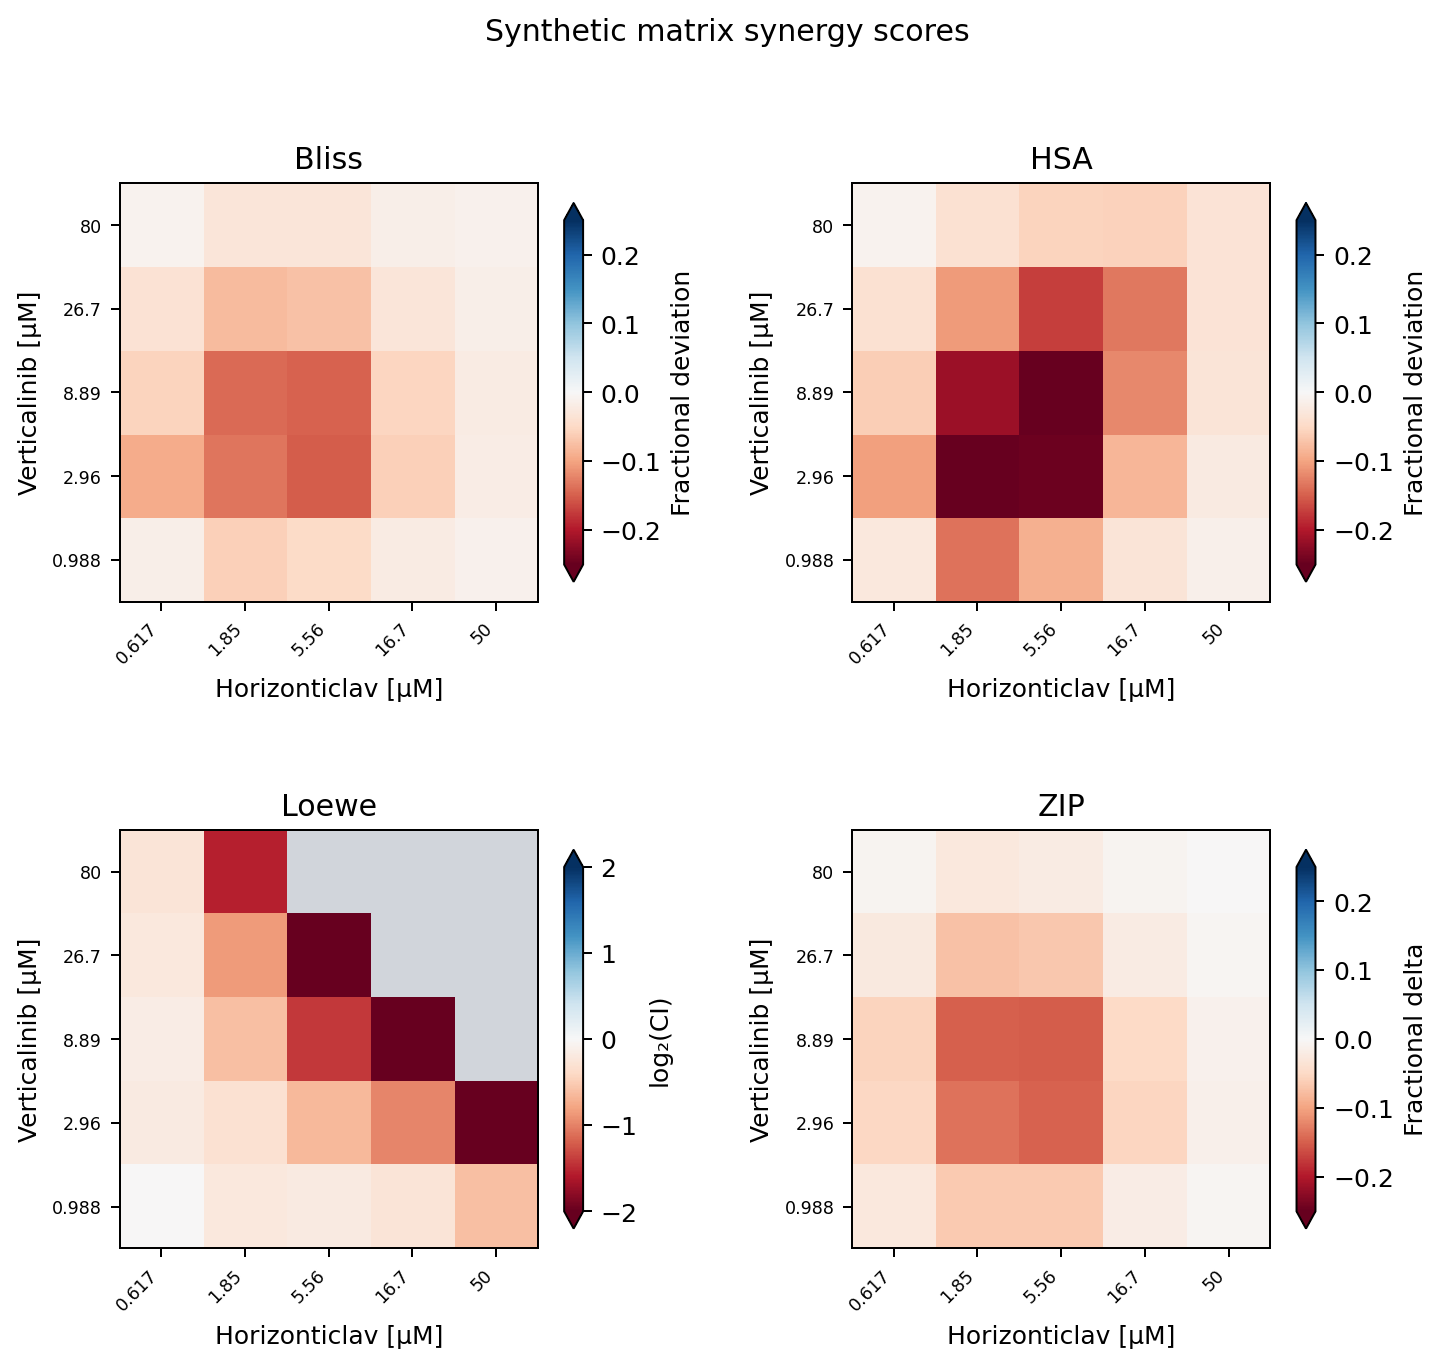
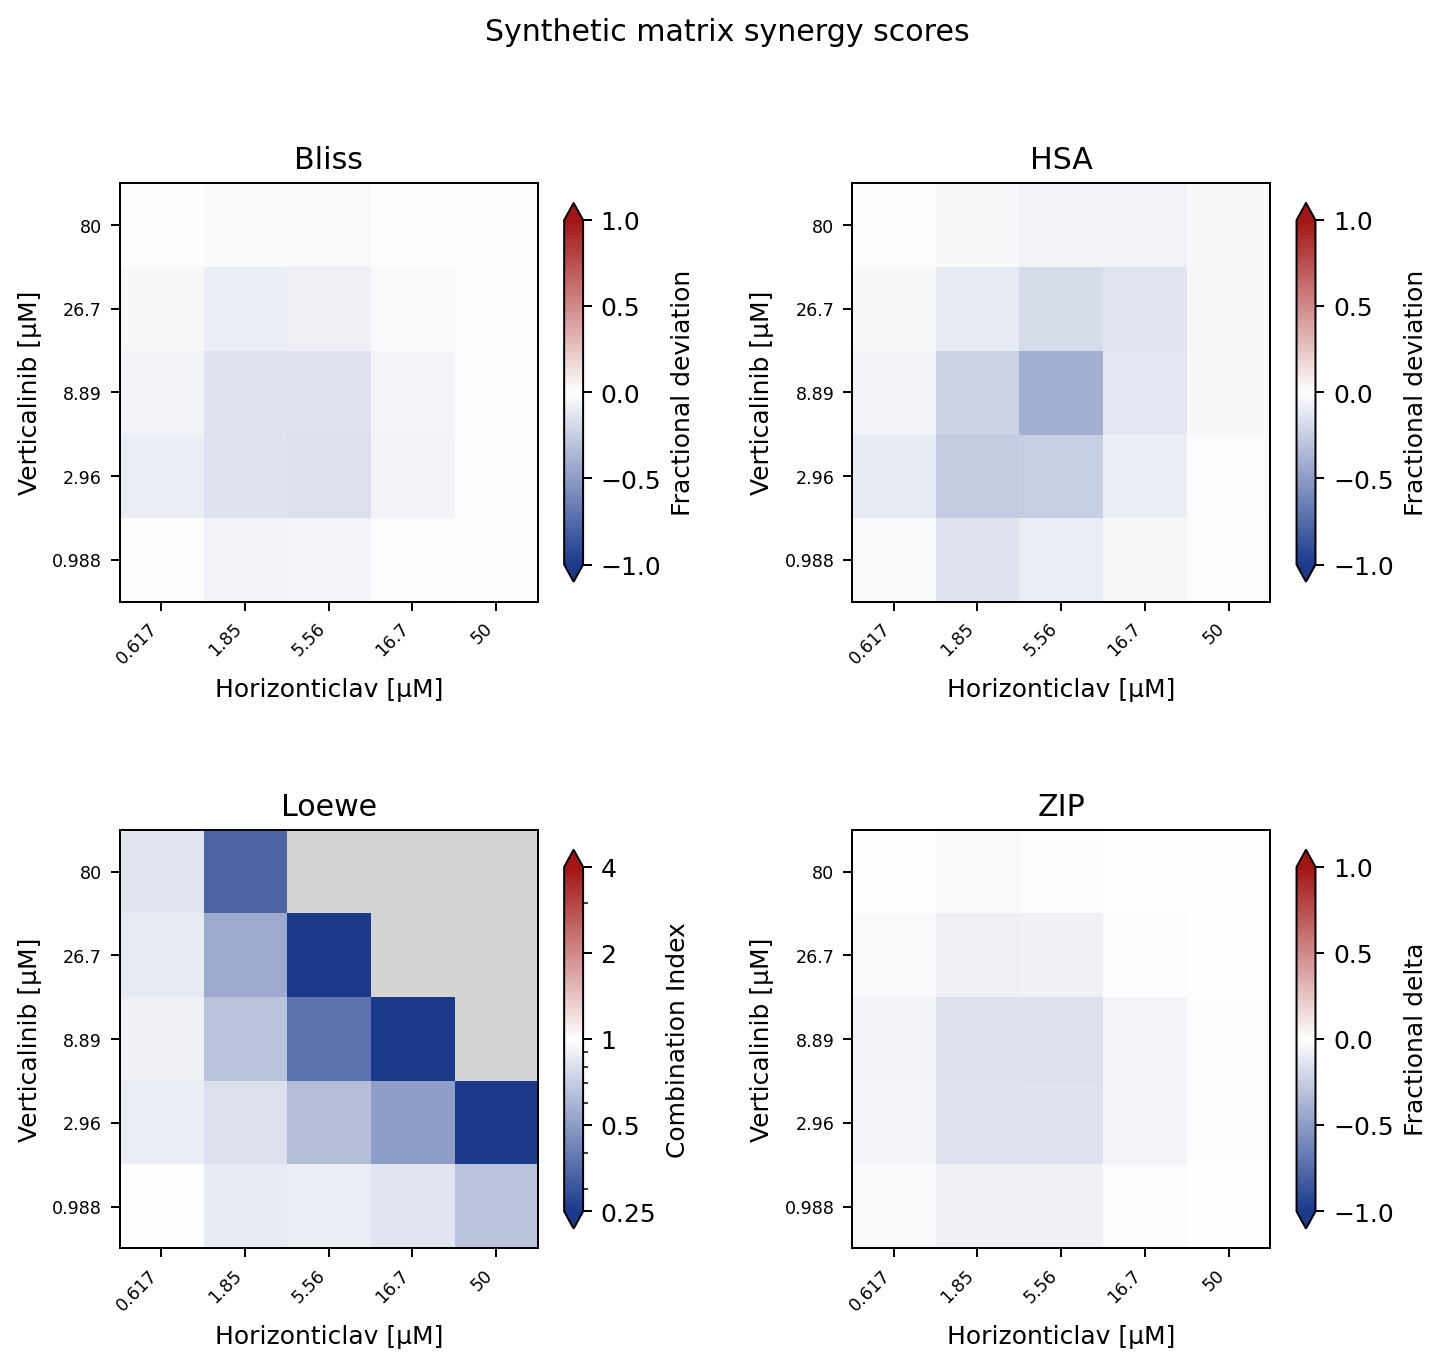
feat(plot): align synergy heatmap scales and colors

diff --git a/src/synfit/plotting.py b/src/synfit/plotting.py
@@ -590,8 +590,9 @@ def synergy_heatmaps(
     The observed zero-dose matrix edges provide the Bliss and HSA single-agent
     responses.  Zero-dose rows and columns are excluded from every panel,
     because they are single-agent observations rather than combination scores.
-    Negative values denote synergy in the Bliss, HSA and ZIP panels; Loewe is
-    shown as ``log2(CI)``, so negative likewise denotes synergy.
+    Bliss, HSA and ZIP use a fixed linear range [-1, 1], with negative values
+    denoting synergy. Loewe CI uses a logarithmic range [0.25, 4], with CI < 1
+    denoting synergy. Blue denotes synergy, white the null and red antagonism.
     """
     matrix = np.asarray(mean_matrix, dtype=float)
     ch = np.asarray(conc_horizontal, dtype=float)
@@ -622,25 +623,25 @@ def synergy_heatmaps(
         asymmetry_hor=1.0 if asymmetry_hor is None else asymmetry_hor,
         asymmetry_ver=1.0 if asymmetry_ver is None else asymmetry_ver,
     )
-    with np.errstate(divide="ignore", invalid="ignore"):
-        loewe_log = np.where(loewe > 0, np.log2(loewe), np.nan)
     zip_score = zip_delta(
         matrix, ch, cv, c50_hor, c50_ver, hill_hor, hill_ver, effect_0, effect_inf,
         asymmetry_hor=asymmetry_hor, asymmetry_ver=asymmetry_ver,
     )
 
     panels = [
-        (bliss_delta, "Bliss", "Fractional deviation", mcolors.TwoSlopeNorm(vmin=-0.25, vcenter=0, vmax=0.25)),
-        (hsa_delta, "HSA", "Fractional deviation", mcolors.TwoSlopeNorm(vmin=-0.25, vcenter=0, vmax=0.25)),
-        (loewe_log, "Loewe", "log₂(CI)", mcolors.TwoSlopeNorm(vmin=-2, vcenter=0, vmax=2)),
-        (zip_score, "ZIP", "Fractional delta", mcolors.TwoSlopeNorm(vmin=-0.25, vcenter=0, vmax=0.25)),
+        (bliss_delta, "Bliss", "Fractional deviation", mcolors.TwoSlopeNorm(vmin=-1, vcenter=0, vmax=1)),
+        (hsa_delta, "HSA", "Fractional deviation", mcolors.TwoSlopeNorm(vmin=-1, vcenter=0, vmax=1)),
+        (loewe, "Loewe", "Combination Index", mcolors.LogNorm(vmin=0.25, vmax=4)),
+        (zip_score, "ZIP", "Fractional delta", mcolors.TwoSlopeNorm(vmin=-1, vcenter=0, vmax=1)),
     ]
+    colors = mcolors.LinearSegmentedColormap.from_list(
+        "synergy", ["#1b3a8c", "#ffffff", "#a31515"], N=256,
+    )
+    colors.set_bad("#d4d4d4")
     fig, axes = plt.subplots(2, 2, figsize=(9, 8))
     x_values, y_values = ch[interior_hor], cv[interior_ver]
     for ax, (values, panel_title, colorbar_label, norm) in zip(axes.flat, panels):
         _style_axes(ax)
-        colors = plt.colormaps["RdBu"].copy()
-        colors.set_bad("#d1d5db")
         interior = values[np.ix_(interior_ver, interior_hor)]
         image = ax.imshow(np.ma.masked_invalid(interior), origin="lower", aspect="auto", cmap=colors, norm=norm)
         ax.set_box_aspect(interior.shape[0] / interior.shape[1])
@@ -649,7 +650,9 @@ def synergy_heatmaps(
         ax.set_yticks(range(len(y_values)), [_fmt_conc(float(y)) for y in y_values], fontsize=7)
         ax.set_xlabel(x_label or "Horizontal drug concentration")
         ax.set_ylabel(y_label or "Vertical drug concentration")
-        fig.colorbar(image, ax=ax, shrink=0.82, label=colorbar_label, extend="both")
+        colorbar = fig.colorbar(image, ax=ax, shrink=0.82, label=colorbar_label, extend="both")
+        if isinstance(norm, mcolors.LogNorm):
+            colorbar.set_ticks([0.25, 0.5, 1, 2, 4], labels=["0.25", "0.5", "1", "2", "4"])
     if title:
         fig.suptitle(title)
     plt.subplots_adjust(wspace=.4, hspace=.4)

diff --git a/docs/tutorials.md b/docs/tutorials.md
@@ -64,8 +64,8 @@ synergy_heatmaps(
     c50_hor=fit.drug_a.c50, c50_ver=fit.drug_b.c50,
     hill_hor=fit.drug_a.hill, hill_ver=fit.drug_b.hill,
     effect_0=fit.drug_a.effect_0, effect_inf=fit.drug_a.effect_inf,
-    x_label=f"{cfg['horizontal_drug']['name']} [{cfg['horizontal_drug']['unit']}]",
-    y_label=f"{cfg['vertical_drug']['name']} [{cfg['vertical_drug']['unit']}]",
+    x_label="Horizonticlav [µM]",
+    y_label="Verticalinib [µM]",
     title="Synthetic matrix synergy scores",
 )
 ```
@@ -78,10 +78,12 @@ edges, then adds lognormal measurement noise. That factor is a simulation
 parameter, not an expected value for ZIP delta or Loewe CI. The
 Bliss and HSA panels use the observed single-agent edges; Loewe and ZIP use the
 fitted marginal curves. Bliss, HSA and ZIP are fractional scores, where
-negative means synergy and positive means antagonism. Loewe is displayed as
-`log₂(CI)`, so its negative values also mean synergy, zero is additive, and
-positive values mean antagonism. Gray cells are unscored, never zero
-interaction. Colorbar extensions mark values beyond the displayed range.
+negative means synergy and positive means antagonism, displayed on a fixed
+linear color scale from −1 to +1. Loewe CI uses a logarithmic color scale from
+0.25 to 4: CI < 1 means synergy, CI = 1 is additive, and CI > 1 means antagonism.
+Blue indicates synergy, white the null, and red antagonism. Gray cells are
+unscored, never zero interaction. Colorbar extensions mark values beyond the
+displayed range.
 
 `MatrixFit` instead fits a six-parameter Bliss null surface to the entire
 matrix. It is useful diagnostically, but it can absorb interaction signal into

diff --git a/docs/api.md b/docs/api.md
@@ -429,10 +429,12 @@ use it to plot an already computed score array.
 `deviation_heatmap`, `hsa_heatmap`, `zip_heatmap` and `loewe_heatmap` are
 convenience wrappers computing their respective scores before plotting.
 The model-based wrappers do not accept 5p asymmetry arguments: for 5p, compute
-scores with explicit asymmetries and pass them to `matrix_heatmap`. The
+scores with explicit asymmetries and pass them to `matrix_heatmap`.
 `synergy_heatmaps` is the compact four-panel alternative: it computes Bliss,
 HSA, Loewe and ZIP from a mean response matrix and fitted marginal parameters.
 It requires one zero-dose row and column to obtain observed single-agent edges,
-then excludes every zero-dose row and column from the four score panels. Loewe
-is shown as `log₂(CI)`; negative values in every panel denote synergy. The
+then excludes every zero-dose row and column from the four score panels.
+Bliss, HSA and ZIP use a fixed linear color range of −1 to +1; Loewe CI uses
+a logarithmic color range of 0.25 to 4. White denotes the null (0 for fractional
+scores, CI = 1 for Loewe), blue synergy, and red antagonism. The
 [tutorials](tutorials.md) use this helper with a bundled matrix.
